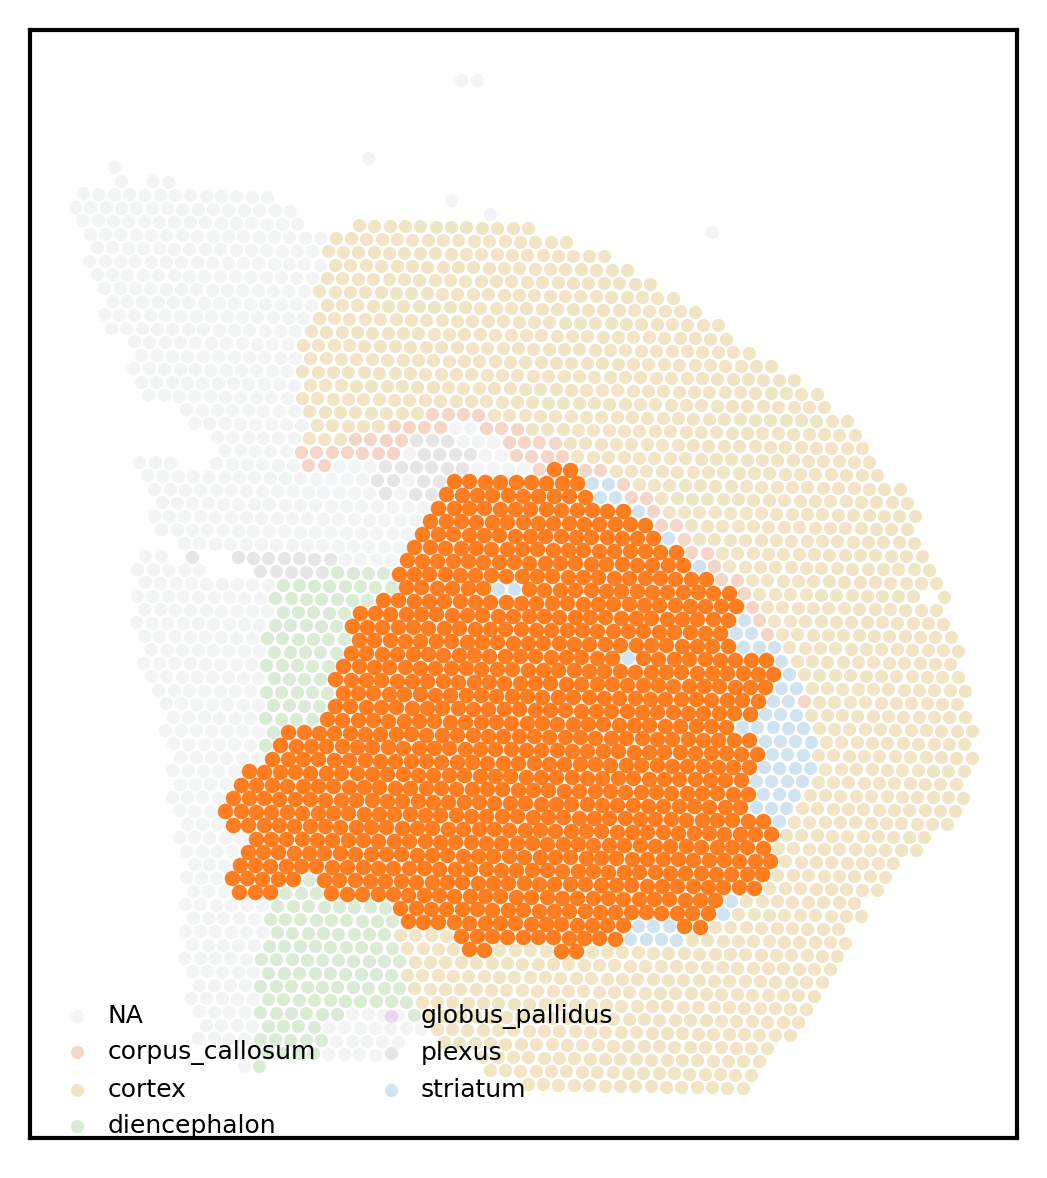
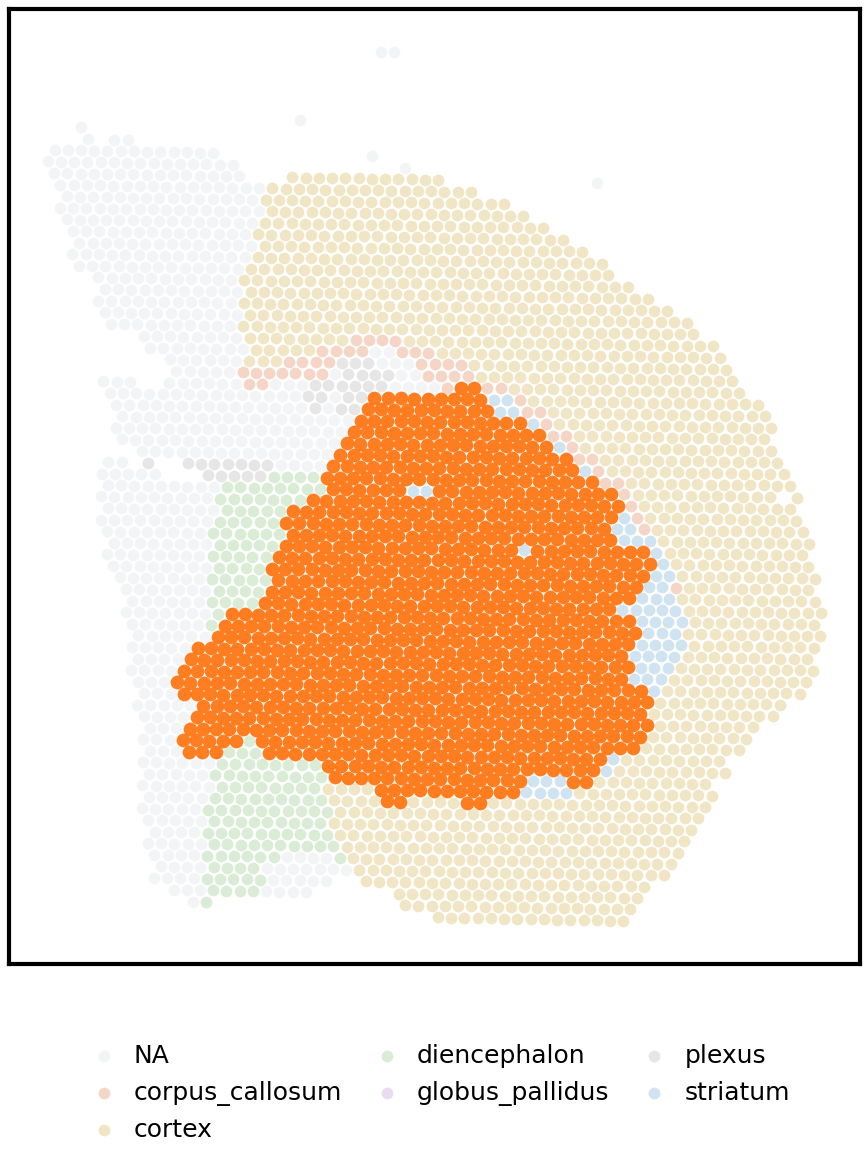
Simplify GSE182127 reproduction script

diff --git a/README.md b/README.md
@@ -13,10 +13,9 @@ paper example.
 data/
   GSE182127_all_samples_aligned_to_GSM5519060_sham_combined.h5ad
   author_leiden_clusters_heme1000.csv
-src/arest_repro/
-  gse182127.py
 notebooks/
   GSE182127_AReST_reproduction.ipynb
+  gse182127.py
 results/
   gse182127_reproduction/
 ```
@@ -43,7 +42,6 @@ checkout without editing absolute server paths.
 ```text
 K_expr = 80
 Gaussian bandwidth quantile = 0.60
-spatial averaging k = 6
 permutations = 1000
 alpha = 0.05
 DBSCAN eps = median sixth-nearest-neighbor distance among significant spots